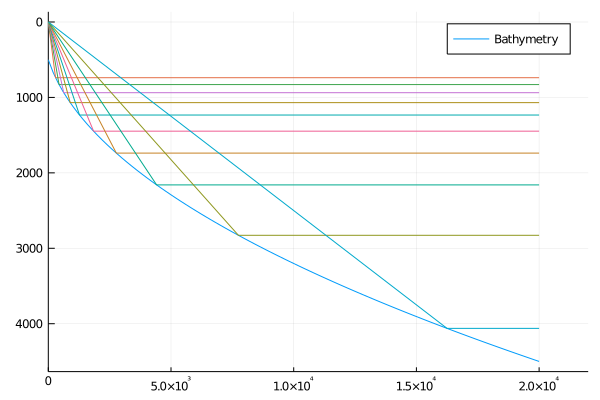
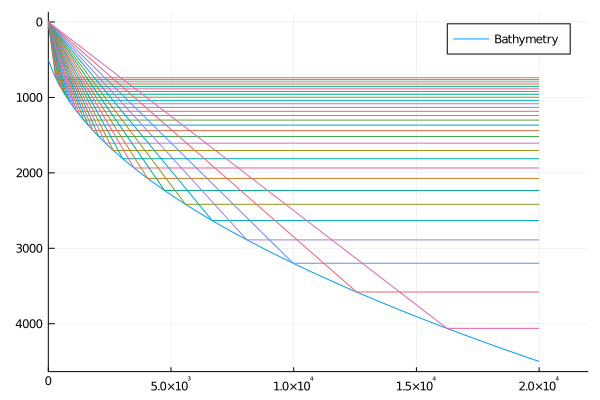
Added Lloyd's Mirror sound field

diff --git a/README.md b/README.md
@@ -21,7 +21,7 @@ This first example demonstrates a Gaussian bathymetry and sinusoidal altimetry, 
 ![](img/RayTrace_FirstExample.png)
 
 ### Parabolic Bathymetry
-With a parabolic bathymetry, a source can be placed at the focus of the parabola which yields horizontal rays upon reflection.
+With a parabolic bathymetry, a source can be placed at the focus of the parabola which yields horizontal rays upon reflection. The following plot is a replication of Figure 3.24a of Jensen [[1]](#JensenEtAl).
 
 ![](img/RayTrace_ParabolicBoundary.png)
 
